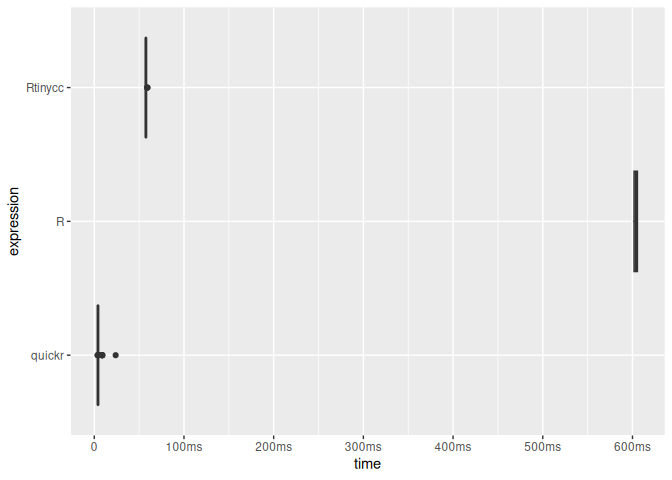
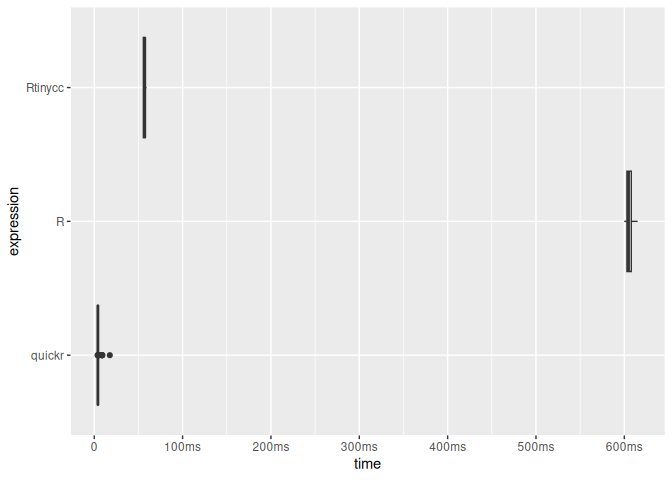
io_uring example

diff --git a/README.md b/README.md
@@ -177,7 +177,7 @@ tcc_read_cstring(ptr)
 tcc_read_bytes(ptr, 5)
 #> [1] 68 65 6c 6c 6f
 tcc_ptr_addr(ptr, hex = TRUE)
-#> [1] "0x572dc1944fb0"
+#> [1] "0x5cdc34af3a60"
 tcc_ptr_is_null(ptr)
 #> [1] FALSE
 tcc_free(ptr)
@@ -208,11 +208,11 @@ through output parameters.
 ptr_ref <- tcc_malloc(.Machine$sizeof.pointer %||% 8L)
 target <- tcc_malloc(8)
 tcc_ptr_set(ptr_ref, target)
-#> <pointer: 0x572dc1f4d920>
+#> <pointer: 0x5cdc341fd250>
 tcc_data_ptr(ptr_ref)
-#> <pointer: 0x572dc10d4050>
+#> <pointer: 0x5cdc33c5c3a0>
 tcc_ptr_set(ptr_ref, tcc_null_ptr())
-#> <pointer: 0x572dc1f4d920>
+#> <pointer: 0x5cdc341fd250>
 tcc_free(target)
 #> NULL
 tcc_free(ptr_ref)
@@ -275,8 +275,8 @@ bench::mark(
 #> # A tibble: 2 × 6
 #>   expression      min   median `itr/sec` mem_alloc `gc/sec`
 #>   <bch:expr> <bch:tm> <bch:tm>     <dbl> <bch:byt>    <dbl>
-#> 1 Rtinycc       937ms    937ms      1.07   134.1MB    10.7 
-#> 2 Rbuiltin      540µs    593µs   1614.      9.05KB     7.99
+#> 1 Rtinycc       909ms    909ms      1.10   134.1MB    11.0 
+#> 2 Rbuiltin      538µs    569µs   1628.      9.05KB     8.00
 
 # For performance-sensitive code, move the loop into C and operate on arrays.
 ffi_vec <- tcc_ffi() |>
@@ -305,8 +305,8 @@ bench::mark(
 #> # A tibble: 2 × 6
 #>   expression        min   median `itr/sec` mem_alloc `gc/sec`
 #>   <bch:expr>   <bch:tm> <bch:tm>     <dbl> <bch:byt>    <dbl>
-#> 1 Rtinycc_vec    99.9µs  106.7µs     9189.    52.8KB     8.37
-#> 2 Rbuiltin_vec   17.6µs   18.4µs    52716.    78.2KB    68.6
+#> 1 Rtinycc_vec    96.3µs  104.1µs     9372.    52.8KB     10.5
+#> 2 Rbuiltin_vec   16.9µs   18.3µs    52875.    78.2KB     63.5
 ```
 
 ### Variadic calls (e.g. `Rprintf` style)
@@ -428,7 +428,7 @@ ffi <- tcc_ffi() |>
 
 x <- as.integer(1:100) # to avoid ALTREP
 .Internal(inspect(x))
-#> @572dcf97db58 13 INTSXP g0c0 [REF(65535)]  1 : 100 (compact)
+#> @5cdc42140f38 13 INTSXP g0c0 [REF(65535)]  1 : 100 (compact)
 ffi$sum_array(x, length(x))
 #> [1] 5050
 
@@ -444,7 +444,7 @@ y[1]
 #> [1] 11
 
 .Internal(inspect(x))
-#> @572dcf97db58 13 INTSXP g0c0 [REF(65535)]  11 : 110 (expanded)
+#> @5cdc42140f38 13 INTSXP g0c0 [REF(65535)]  11 : 110 (expanded)
 ```
 
 ### Benchmark
@@ -508,9 +508,9 @@ timings
 #> # A tibble: 3 × 6
 #>   expression      min   median `itr/sec` mem_alloc `gc/sec`
 #>   <bch:expr> <bch:tm> <bch:tm>     <dbl> <bch:byt>    <dbl>
-#> 1 R          600.83ms 603.74ms      1.66     844KB     0   
-#> 2 quickr       3.65ms   4.13ms    242.       782KB     3.63
-#> 3 Rtinycc     56.84ms  57.54ms     17.4      796KB     0
+#> 1 R          599.84ms 604.01ms      1.66     844KB    0.553
+#> 2 quickr       3.73ms   4.11ms    243.       782KB    3.09 
+#> 3 Rtinycc     55.47ms   57.1ms     17.6      796KB    0.503
 plot(timings, type = "boxplot") + bench::scale_x_bench_time(base = NULL)
 ```
 
@@ -538,15 +538,15 @@ ffi <- tcc_ffi() |>
 
 p1 <- ffi$struct_point_new()
 ffi$struct_point_set_x(p1, 0.0)
-#> <pointer: 0x572ddf32b130>
+#> <pointer: 0x5cdc4db21cb0>
 ffi$struct_point_set_y(p1, 0.0)
-#> <pointer: 0x572ddf32b130>
+#> <pointer: 0x5cdc4db21cb0>
 
 p2 <- ffi$struct_point_new()
 ffi$struct_point_set_x(p2, 3.0)
-#> <pointer: 0x572dde8ccd60>
+#> <pointer: 0x5cdc4d5f9bd0>
 ffi$struct_point_set_y(p2, 4.0)
-#> <pointer: 0x572dde8ccd60>
+#> <pointer: 0x5cdc4d5f9bd0>
 
 ffi$distance(p1, p2)
 #> [1] 5
@@ -591,9 +591,9 @@ ffi <- tcc_ffi() |>
 
 s <- ffi$struct_flags_new()
 ffi$struct_flags_set_active(s, 1L)
-#> <pointer: 0x572dde83ba50>
+#> <pointer: 0x5cdc39556980>
 ffi$struct_flags_set_level(s, 9L)
-#> <pointer: 0x572dde83ba50>
+#> <pointer: 0x5cdc39556980>
 ffi$struct_flags_get_active(s)
 #> [1] 1
 ffi$struct_flags_get_level(s)
@@ -885,7 +885,7 @@ ffi <- tcc_ffi() |>
   tcc_compile()
 
 ffi$struct_point_new()
-#> <pointer: 0x572ddc26ee60>
+#> <pointer: 0x5cdc33847230>
 ffi$enum_status_OK()
 #> [1] 0
 ffi$global_global_counter_get()
@@ -941,7 +941,7 @@ if (Sys.info()[["sysname"]] == "Linux") {
     isTRUE(all.equal(uring_tbl, baseline, tolerance = 1e-8, check.attributes = FALSE))
   )
 
-  bench::mark(
+timings <- bench::mark(
     read_table_df = {
       x <- utils::read.table(tmp_csv, sep = ",", header = TRUE)
       nrow(x)
@@ -960,13 +960,10 @@ if (Sys.info()[["sysname"]] == "Linux") {
 }
 #> Warning: Some expressions had a GC in every iteration; so filtering is
 #> disabled.
-#> # A tibble: 3 × 6
-#>   expression         min   median `itr/sec` mem_alloc `gc/sec`
-#>   <bch:expr>    <bch:tm> <bch:tm>     <dbl> <bch:byt>    <dbl>
-#> 1 read_table_df   10.18s   10.75s    0.0931     494MB    0.279
-#> 2 c_read_df        1.86s    1.87s    0.535      122MB    0    
-#> 3 io_uring_df      1.88s     1.9s    0.527      122MB    0
+plot(timings, type = "boxplot") + bench::scale_x_bench_time(base = NULL)
 ```
+
+<img src="man/figures/README-io_uring-demo-1.png" width="100%" />
 
 ## Known limitations
 
@@ -1014,11 +1011,11 @@ ffi <- tcc_ffi() |>
 o <- ffi$struct_outer_new()
 i <- ffi$struct_inner_new()
 ffi$struct_inner_set_a(i, 42L)
-#> <pointer: 0x572ddf350280>
+#> <pointer: 0x5cdc4d5de650>
 
 # Write the inner pointer into the outer struct
 ffi$struct_outer_in_addr(o) |> tcc_ptr_set(i)
-#> <pointer: 0x572dd0f4f880>
+#> <pointer: 0x5cdc4d6736f0>
 
 # Read it back through indirection
 ffi$struct_outer_in_addr(o) |>
@@ -1047,9 +1044,9 @@ ffi <- tcc_ffi() |>
 
 b <- ffi$struct_buf_new()
 ffi$struct_buf_set_data_elt(b, 0L, 0xCAL)
-#> <pointer: 0x572ddf311430>
+#> <pointer: 0x5cdc4db05830>
 ffi$struct_buf_set_data_elt(b, 1L, 0xFEL)
-#> <pointer: 0x572ddf311430>
+#> <pointer: 0x5cdc4db05830>
 ffi$struct_buf_get_data_elt(b, 0L)
 #> [1] 202
 ffi$struct_buf_get_data_elt(b, 1L)
